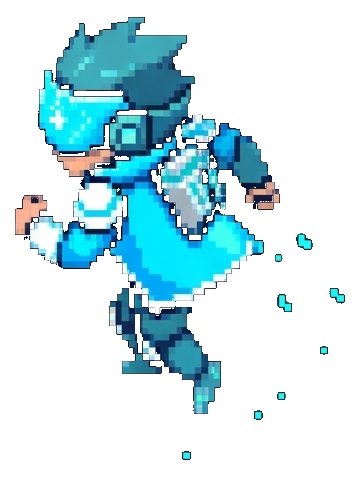
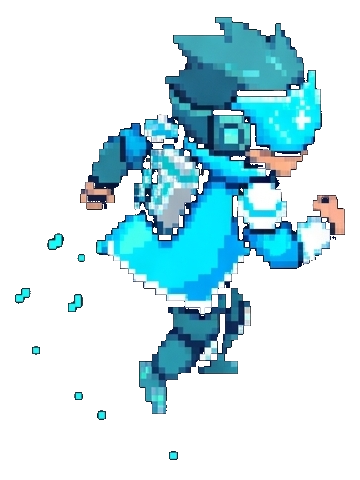
fix(sprites): corregir parpadeo y orientacion en movimiento diagonal y añadir sprites up_left y up_right

diff --git a/public/js/client.js b/public/js/client.js
@@ -87,7 +87,7 @@ const COLOR_MAP = {
 };
 
 const OPERATOR_COLORS = Object.values(COLOR_MAP);
-const DIRECTIONS = ['front', 'back', 'right', 'left'];
+const DIRECTIONS = ['front', 'back', 'right', 'left', 'up_left', 'up_right'];
 
 // Cache de imágenes con ciclo multi-frame para todos los colores:
 // operatorSprites[color][direction] -> Array de HTMLImageElement
@@ -96,6 +96,8 @@ for (const c of OPERATOR_COLORS) {
   operatorSprites[c] = {
     front: [new Image(), new Image()],
     back: [new Image(), new Image()],
+    up_left: [new Image(), new Image()],
+    up_right: [new Image(), new Image()],
     right: [new Image(), new Image(), new Image(), new Image()],
     left: [new Image(), new Image(), new Image(), new Image()],
   };
@@ -105,6 +107,12 @@ for (const c of OPERATOR_COLORS) {
 
   operatorSprites[c].back[0].src = `/img/soldier_${c}_back.png`;
   operatorSprites[c].back[1].src = `/img/soldier_${c}_back2.png`;
+
+  operatorSprites[c].up_left[0].src = `/img/soldier_${c}_up_left.png`;
+  operatorSprites[c].up_left[1].src = `/img/soldier_${c}_up_left2.png`;
+
+  operatorSprites[c].up_right[0].src = `/img/soldier_${c}_up_right.png`;
+  operatorSprites[c].up_right[1].src = `/img/soldier_${c}_up_right2.png`;
 
   operatorSprites[c].right[0].src = `/img/soldier_${c}_right.png`;
   operatorSprites[c].right[1].src = `/img/soldier_${c}_right2.png`;
@@ -1877,6 +1885,43 @@ function drawProjectiles(projectiles, renderTime) {
   }
 }
 
+// Resolución angular de orientación para evitar oscilaciones en diagonales
+function resolveDirectionFromAngle(deg, lastHoriz = 'right') {
+  // deg en grados [-180, 180]:
+  //  0° = derecha pura
+  //  90° = abajo puro (front)
+  //  -90° = arriba puro (back)
+  //  ±180° = izquierda pura
+
+  // Hacia abajo (front): entre 65° y 115°
+  if (deg >= 65 && deg <= 115) {
+    return 'front';
+  }
+
+  // Hacia arriba puro (back / espaldas): entre -115° y -65°
+  if (deg >= -115 && deg <= -65) {
+    return lastHoriz === 'left' ? 'up_left' : 'up_right';
+  }
+
+  // Diagonal arriba-izquierda (W+A, -135°): entre -160° y -115°
+  if (deg < -115 && deg >= -160) {
+    return 'up_left';
+  }
+
+  // Diagonal arriba-derecha (W+D, -45°): entre -65° y -20°
+  if (deg > -65 && deg <= -20) {
+    return 'up_right';
+  }
+
+  // Derecha pura y diagonal abajo-derecha (S+D, +45°): entre -20° y 65°
+  if (deg > -20 && deg < 65) {
+    return 'right';
+  }
+
+  // Izquierda pura y diagonal abajo-izquierda (S+A, +135°): deg >= 115 o deg < -160
+  return 'left';
+}
+
 function drawPlayers(players, renderTime, dt = 0.016) {
   for (const p of players) {
     let pos;
@@ -1895,7 +1940,9 @@ function drawPlayers(players, renderTime, dt = 0.016) {
       prevX: pos.x,
       prevY: pos.y,
       lastDir: 'front',
+      lastHoriz: 'right',
       walkTime: 0,
+      tilt: 0,
     };
 
     const dx = pos.x - orient.prevX;
@@ -1903,46 +1950,44 @@ function drawPlayers(players, renderTime, dt = 0.016) {
     orient.prevX = pos.x;
     orient.prevY = pos.y;
 
-    const moveDist = Math.hypot(dx, dy);
-    const isMoving = moveDist > 0.04;
+    let isMoving = false;
+    let moveDeg = null;
+
+    if (p.id === state.myPlayerId) {
+      const input = readMovementInput();
+      if (Math.hypot(input.x, input.y) > 0.08) {
+        isMoving = true;
+        moveDeg = (Math.atan2(input.y, input.x) * 180) / Math.PI;
+        if (input.x > 0.05) orient.lastHoriz = 'right';
+        else if (input.x < -0.05) orient.lastHoriz = 'left';
+      }
+    }
+
+    if (!isMoving) {
+      const moveDist = Math.hypot(dx, dy);
+      if (moveDist > 0.06) {
+        isMoving = true;
+        moveDeg = (Math.atan2(dy, dx) * 180) / Math.PI;
+        if (dx > 0.04) orient.lastHoriz = 'right';
+        else if (dx < -0.04) orient.lastHoriz = 'left';
+      }
+    }
+
     if (isMoving) {
       orient.walkTime += dt;
-    }
-
-    // Orientación precisa hacia donde va el operador
-    let dir = orient.lastDir;
-
-    if (isMoving) {
-      const moveAngle = Math.atan2(dy, dx);
-      const deg = (moveAngle * 180) / Math.PI;
-
-      if (deg >= -45 && deg <= 45) {
-        dir = 'right';
-      } else if (deg > 45 && deg < 135) {
-        dir = 'front'; // Hacia abajo / cámara
-      } else if (deg < -45 && deg > -135) {
-        dir = 'back'; // Hacia arriba / espaldas
-      } else {
-        dir = 'left';
-      }
-      orient.lastDir = dir;
+      orient.lastDir = resolveDirectionFromAngle(moveDeg, orient.lastHoriz);
     } else if (p.id === state.myPlayerId) {
-      // Si está detenido y es el jugador local, orientarse hacia el ángulo de puntería (mouse o touch)
-      const deg = (state.aimAngle * 180) / Math.PI;
-
-      if (deg >= -45 && deg <= 45) {
-        dir = 'right';
-      } else if (deg > 45 && deg < 135) {
-        dir = 'front';
-      } else if (deg < -45 && deg > -135) {
-        dir = 'back';
-      } else {
-        dir = 'left';
-      }
-      orient.lastDir = dir;
+      // En reposo, orientarse suavemente hacia la mira
+      const aimDeg = (state.aimAngle * 180) / Math.PI;
+      orient.lastDir = resolveDirectionFromAngle(aimDeg, orient.lastHoriz);
     }
 
+    const dir = orient.lastDir;
     playerOrientations.set(p.id, orient);
+
+    if (p.id === state.myPlayerId) {
+      elements.playerCoordinates?.setAttribute('data-player-dir', dir);
+    }
 
     // Obtener sprite correspondiente al color y dirección del operador con ciclo multi-frame
     const colorKey = COLOR_MAP[p.color?.toLowerCase()] || 'cyan';
@@ -1956,20 +2001,20 @@ function drawPlayers(players, renderTime, dt = 0.016) {
           const frameIdx = Math.floor((orient.walkTime * 11) % 4);
           const list = spriteSet[dir] || [];
           sprite = list[frameIdx] || list[0];
-        } else if (dir === 'front') {
-          // Ciclo de marcha frontal de 2 fotogramas
+        } else if (dir === 'up_left' || dir === 'up_right') {
+          // Ciclo diagonal dorsal de 2 fotogramas sincronizados (ambos en la misma dirección)
           const frameIdx = Math.floor((orient.walkTime * 8) % 2);
-          const list = spriteSet.front || [];
+          const list = spriteSet[dir] || spriteSet.back || [];
           sprite = list[frameIdx] || list[0];
         } else {
-          // Ciclo de marcha de espaldas de 2 fotogramas
+          // Ciclo de marcha frontal (front) o espalda (back)
           const frameIdx = Math.floor((orient.walkTime * 8) % 2);
-          const list = spriteSet.back || [];
+          const list = spriteSet[dir] || spriteSet.front || [];
           sprite = list[frameIdx] || list[0];
         }
       } else {
         // En reposo (idle): postura base limpia
-        const dirList = spriteSet[dir];
+        const dirList = spriteSet[dir] || spriteSet.front;
         sprite = Array.isArray(dirList) ? dirList[0] : dirList;
       }
     }
@@ -1980,7 +2025,11 @@ function drawPlayers(players, renderTime, dt = 0.016) {
     const idleBreathe = !isMoving ? Math.sin((renderTime + (p.id ? p.id.charCodeAt(0) * 120 : 0)) * 0.004) * 0.9 : 0;
     const walkBob = isMoving ? Math.sin(orient.walkTime * 15) * 1.6 : 0;
     const bob = walkBob + idleBreathe;
-    const tilt = isMoving ? Math.max(-0.09, Math.min(0.09, (dx / (Math.abs(dy) + 0.1)) * 0.06)) : 0;
+    const targetTilt = isMoving
+      ? (dir === 'left' || dir === 'up_left' ? -0.05 : dir === 'right' || dir === 'up_right' ? 0.05 : 0)
+      : 0;
+    orient.tilt = (orient.tilt || 0) * 0.82 + targetTilt * 0.18;
+    const tilt = orient.tilt;
 
     // Estela de partículas de fluidez de movimiento al desplazarse
     if (isMoving && Math.random() < 0.28) {

diff --git a/tests/e2e/canvas-flow.spec.js b/tests/e2e/canvas-flow.spec.js
@@ -47,4 +47,40 @@ test.describe('Flujo E2E 3: Lienzo Canvas, Inyección de Controles y Aserción d
     const moved = updatedX !== initialX || updatedY !== initialY;
     expect(moved).toBeTruthy();
   });
+
+  test('movimiento diagonal en W+A y W+D mantiene orientación estable (up_left / up_right) sin oscilaciones', async ({
+    page,
+  }) => {
+    await page.goto('/');
+
+    await page.click('#btn-quick-join');
+    await expect(page.locator('#view-room-waiting')).toHaveClass(/active/, { timeout: 10_000 });
+
+    await page.click('#btn-toggle-ready');
+    await expect(page.locator('#view-game')).toHaveClass(/active/, { timeout: 10_000 });
+
+    const coordsBox = page.locator('#player-coordinates');
+    await expect(coordsBox).not.toHaveAttribute('data-player-x', '0', { timeout: 10_000 });
+
+    // 1. Presionar diagonal W + A (arriba-izquierda)
+    await page.keyboard.down('KeyW');
+    await page.keyboard.down('KeyA');
+    await page.waitForTimeout(300);
+
+    const dirUpLeft = await coordsBox.getAttribute('data-player-dir');
+    await page.keyboard.up('KeyW');
+    await page.keyboard.up('KeyA');
+    expect(dirUpLeft).toBe('up_left');
+
+    // 2. Presionar diagonal W + D (arriba-derecha)
+    await page.keyboard.down('KeyW');
+    await page.keyboard.down('KeyD');
+    await page.waitForTimeout(300);
+
+    const dirUpRight = await coordsBox.getAttribute('data-player-dir');
+    await page.keyboard.up('KeyW');
+    await page.keyboard.up('KeyD');
+    expect(dirUpRight).toBe('up_right');
+  });
 });
+
